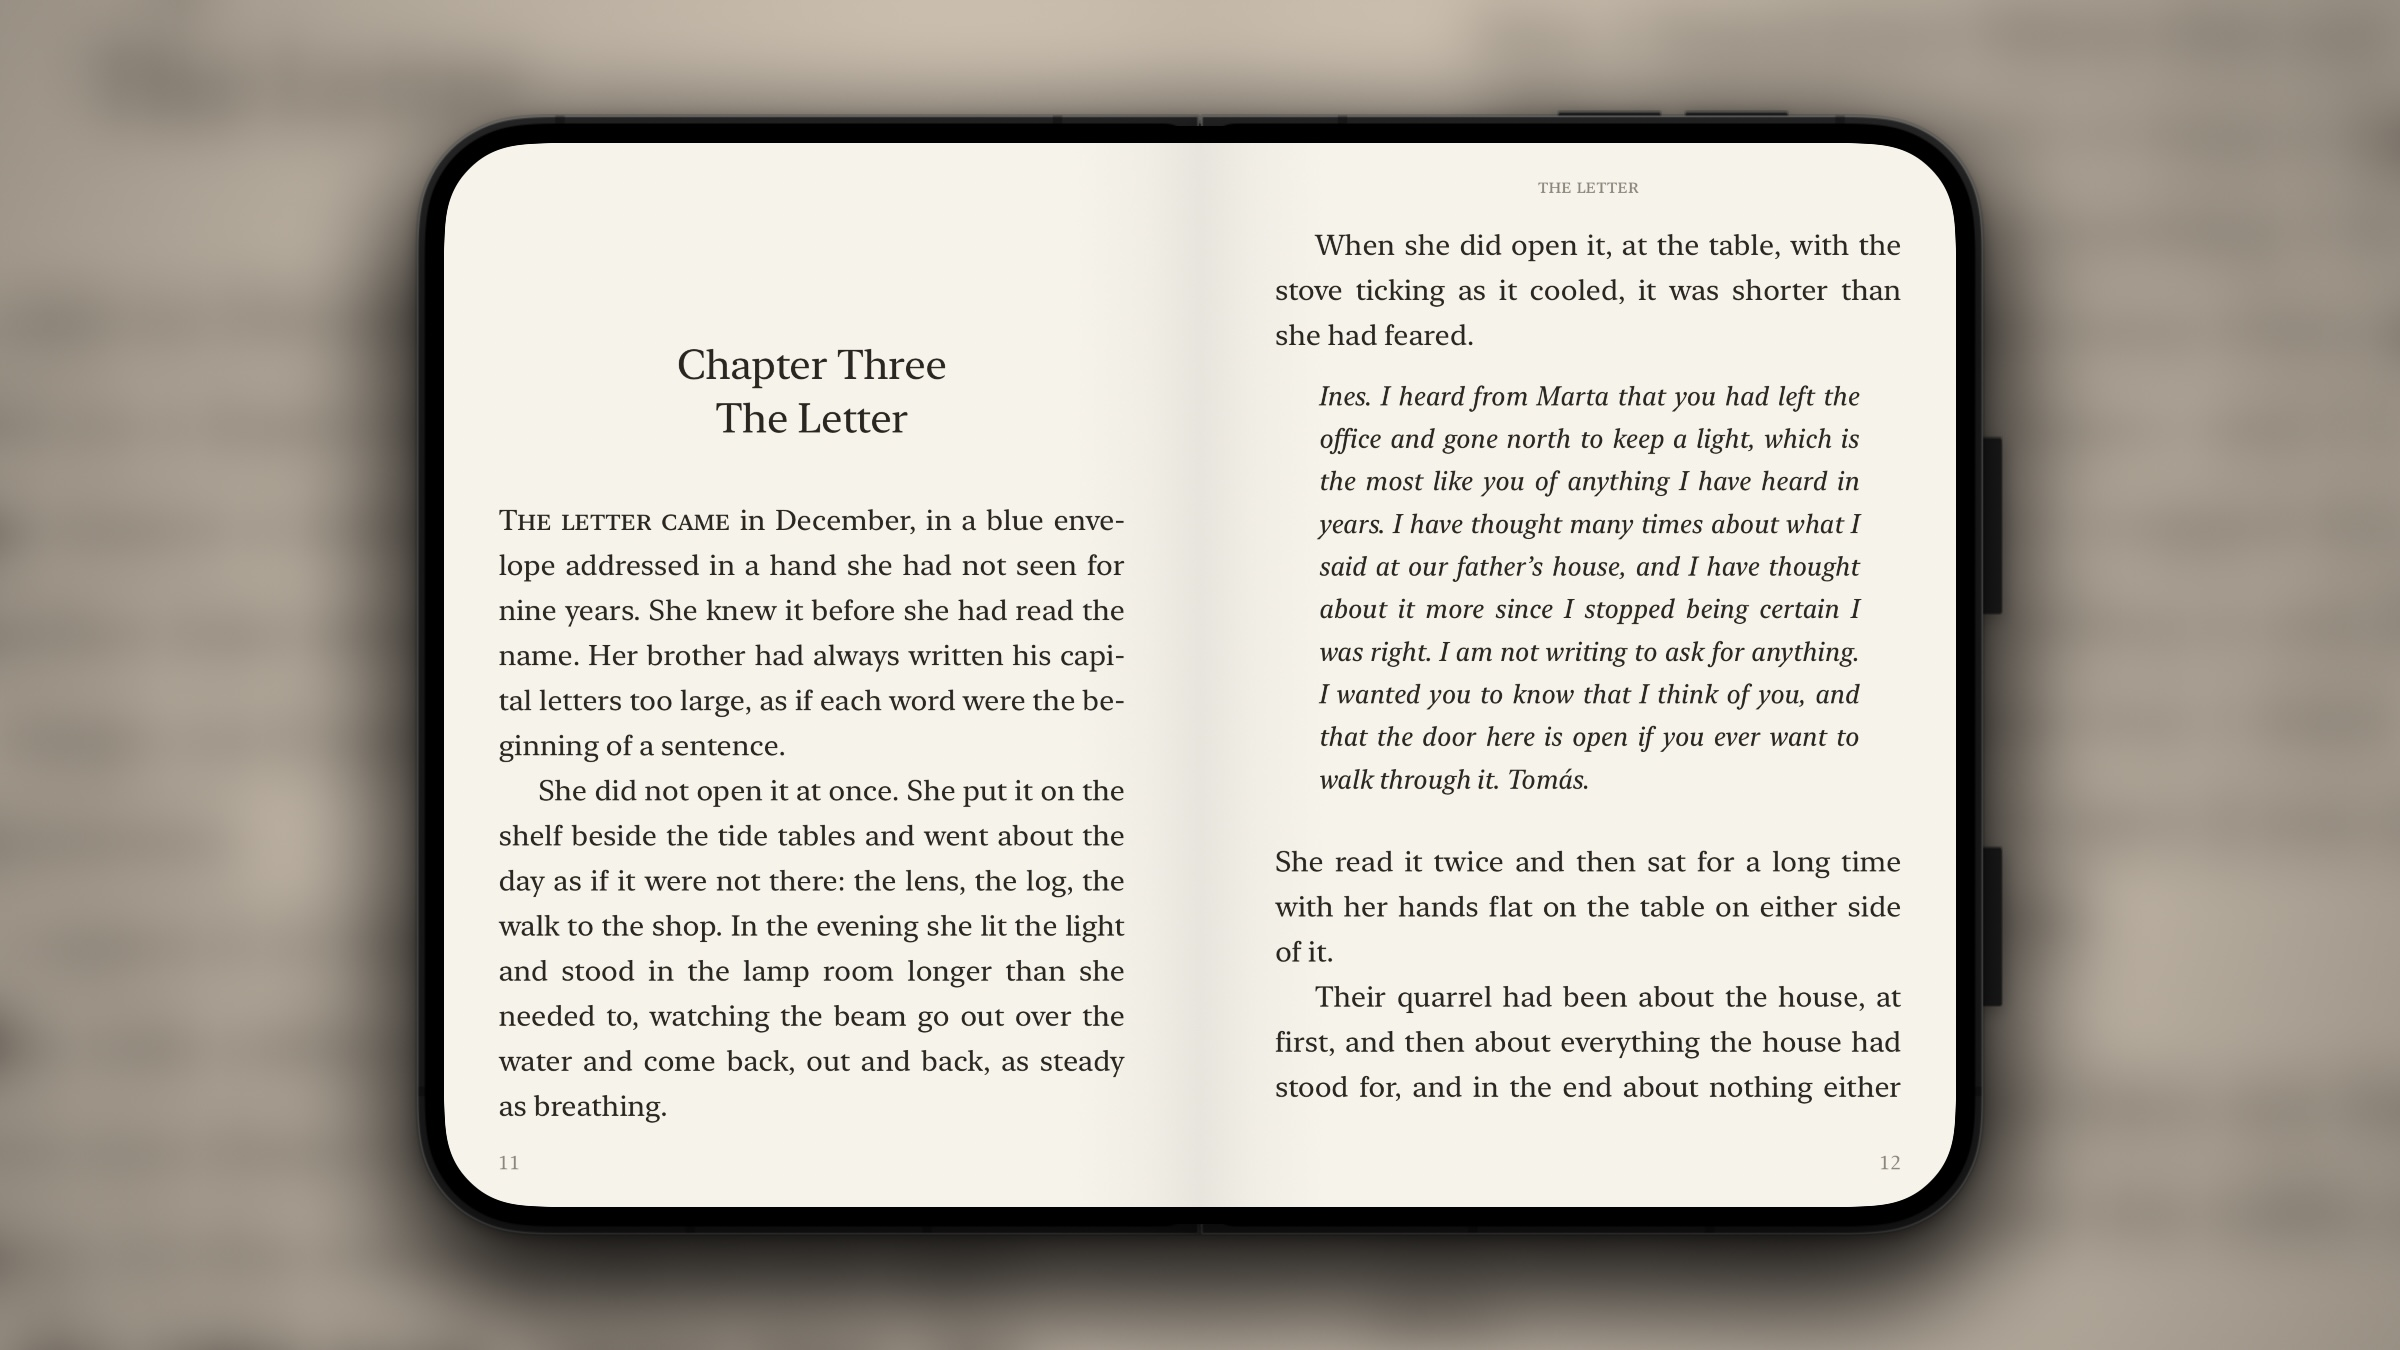
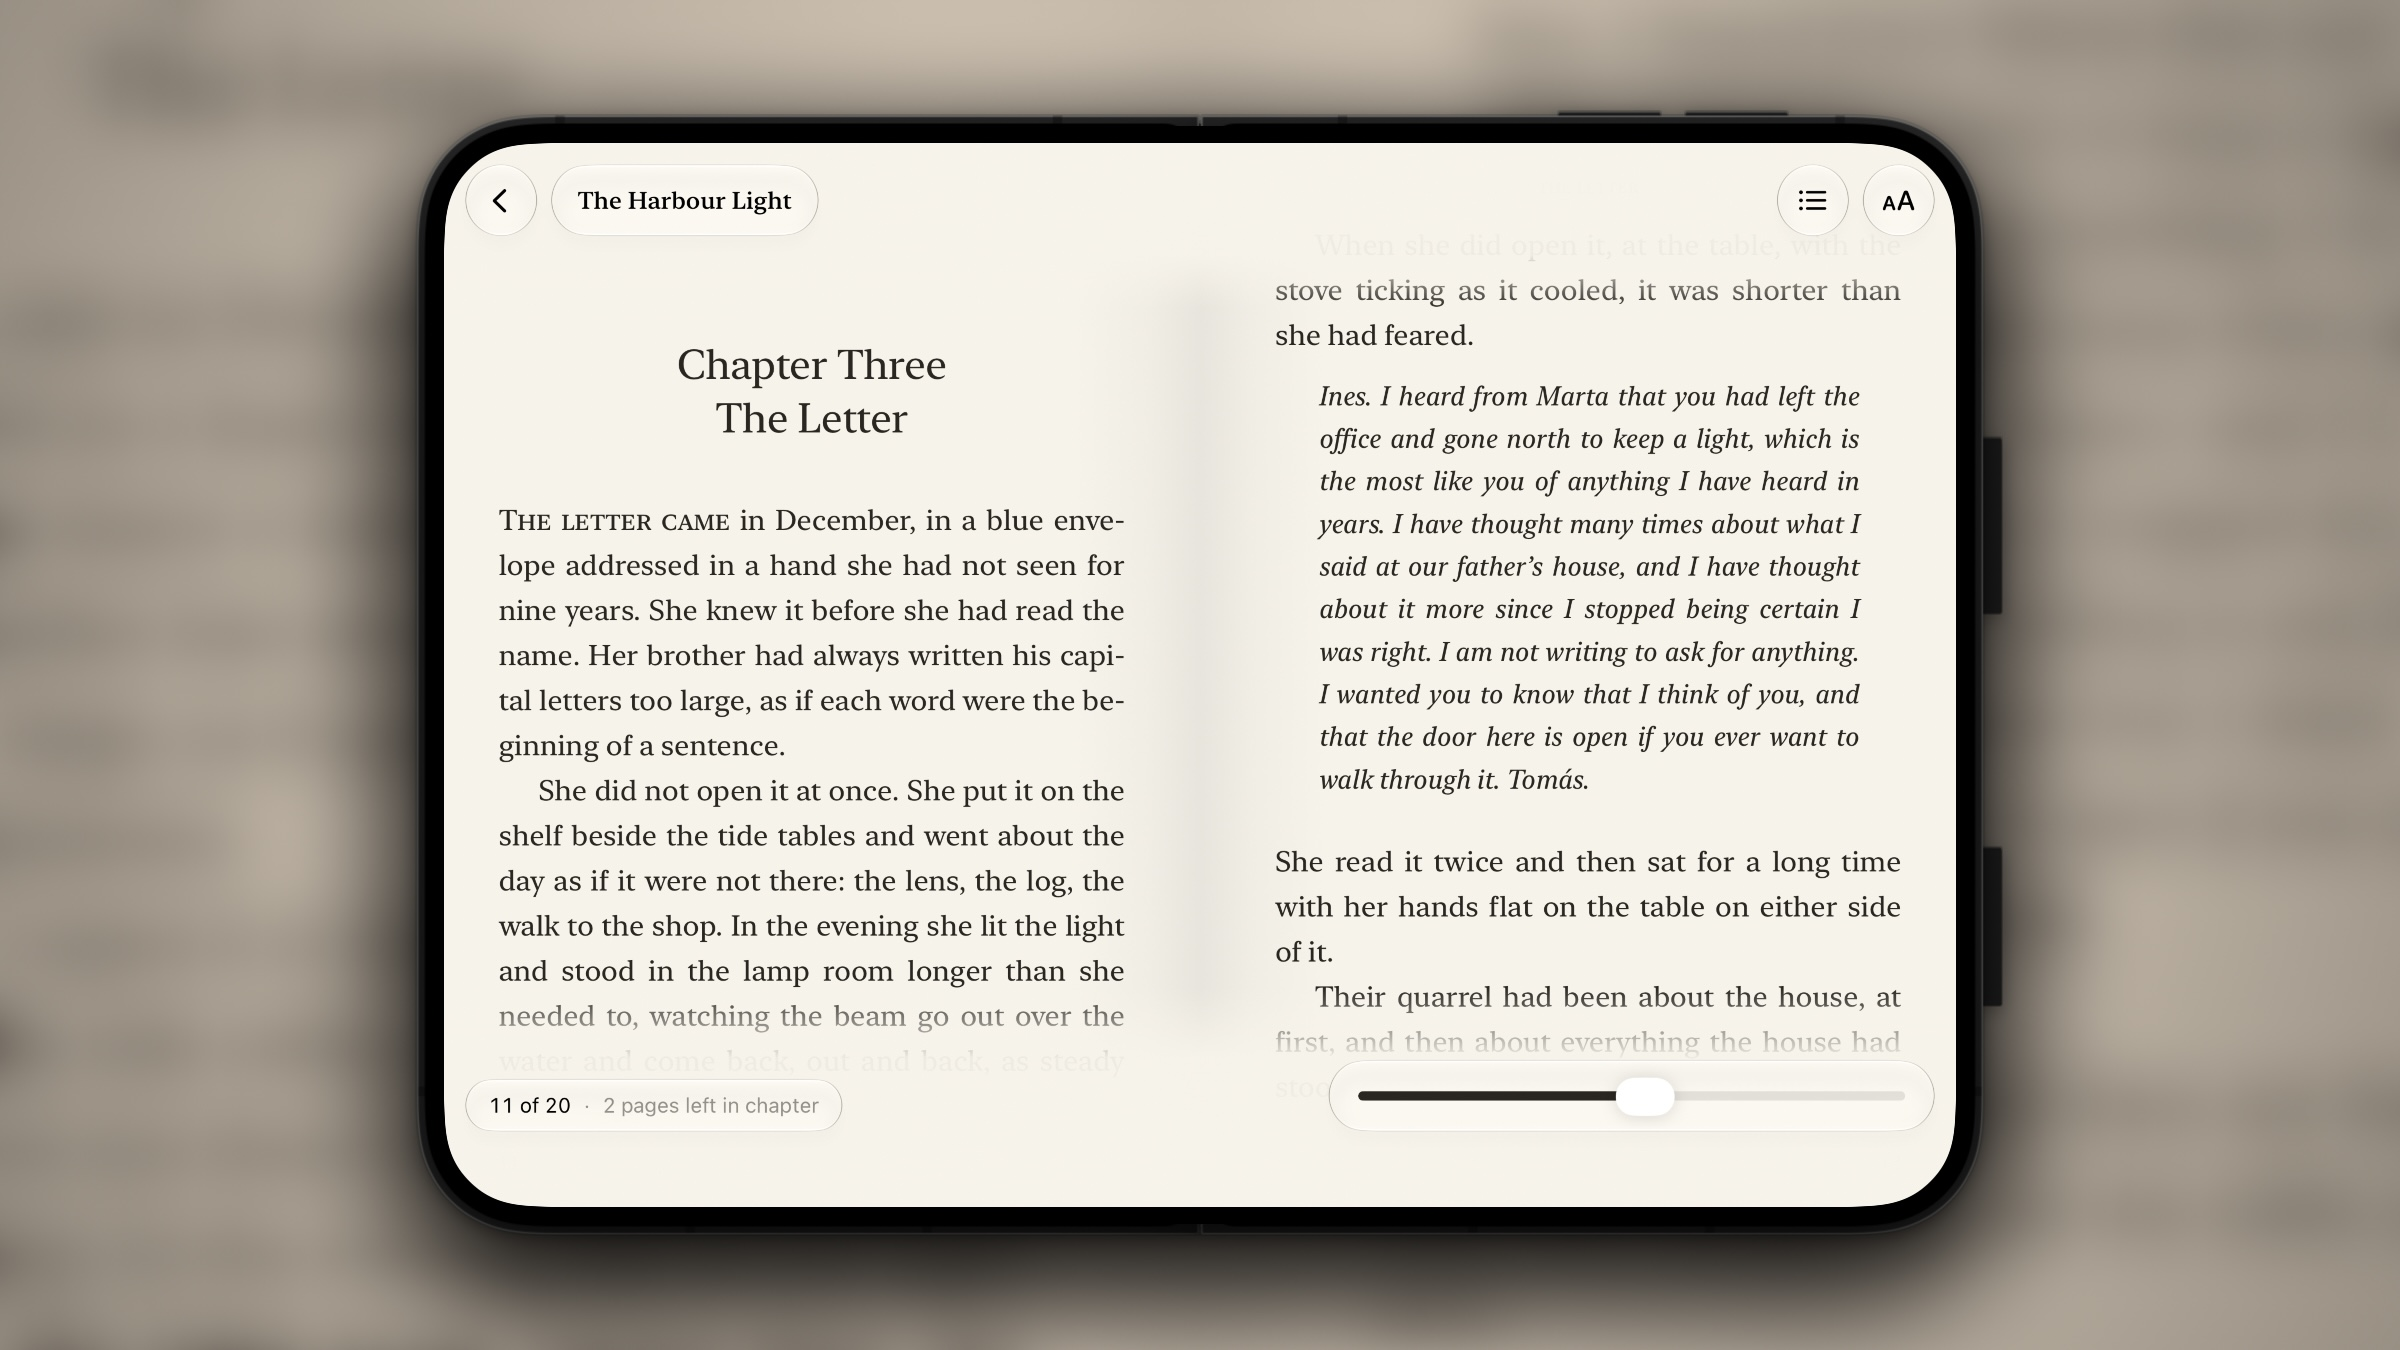
chore(marketing): show the reader controls in the hero image

diff --git a/marketing/compose.swift b/marketing/compose.swift
@@ -271,6 +271,7 @@ MainActor.assumeIsolated {
     try! FileManager.default.createDirectory(at: output, withIntermediateDirectories: true)
 
     let hero = load("open-paper-hero")
+    let heroWithControls = load("open-paper-chrome")
     let pageThree = load("open-paper-p3")
     let closed = load("closed-paper-p3")
     let night = load("open-night-contents")
@@ -279,7 +280,7 @@ MainActor.assumeIsolated {
 
     let single: CGFloat = 1.06 // the open Duo about 1060 pt wide on a 1600 pt canvas
 
-    render(Shot(background: hero) { OpenDuo(screen: hero, scale: single) }, to: "01-spread")
+    render(Shot(background: hero) { OpenDuo(screen: heroWithControls, scale: single) }, to: "01-spread")
 
     // Both phones at the same scale, so the closed one reads as the same device folded.
     render(Shot(background: pageThree) {
